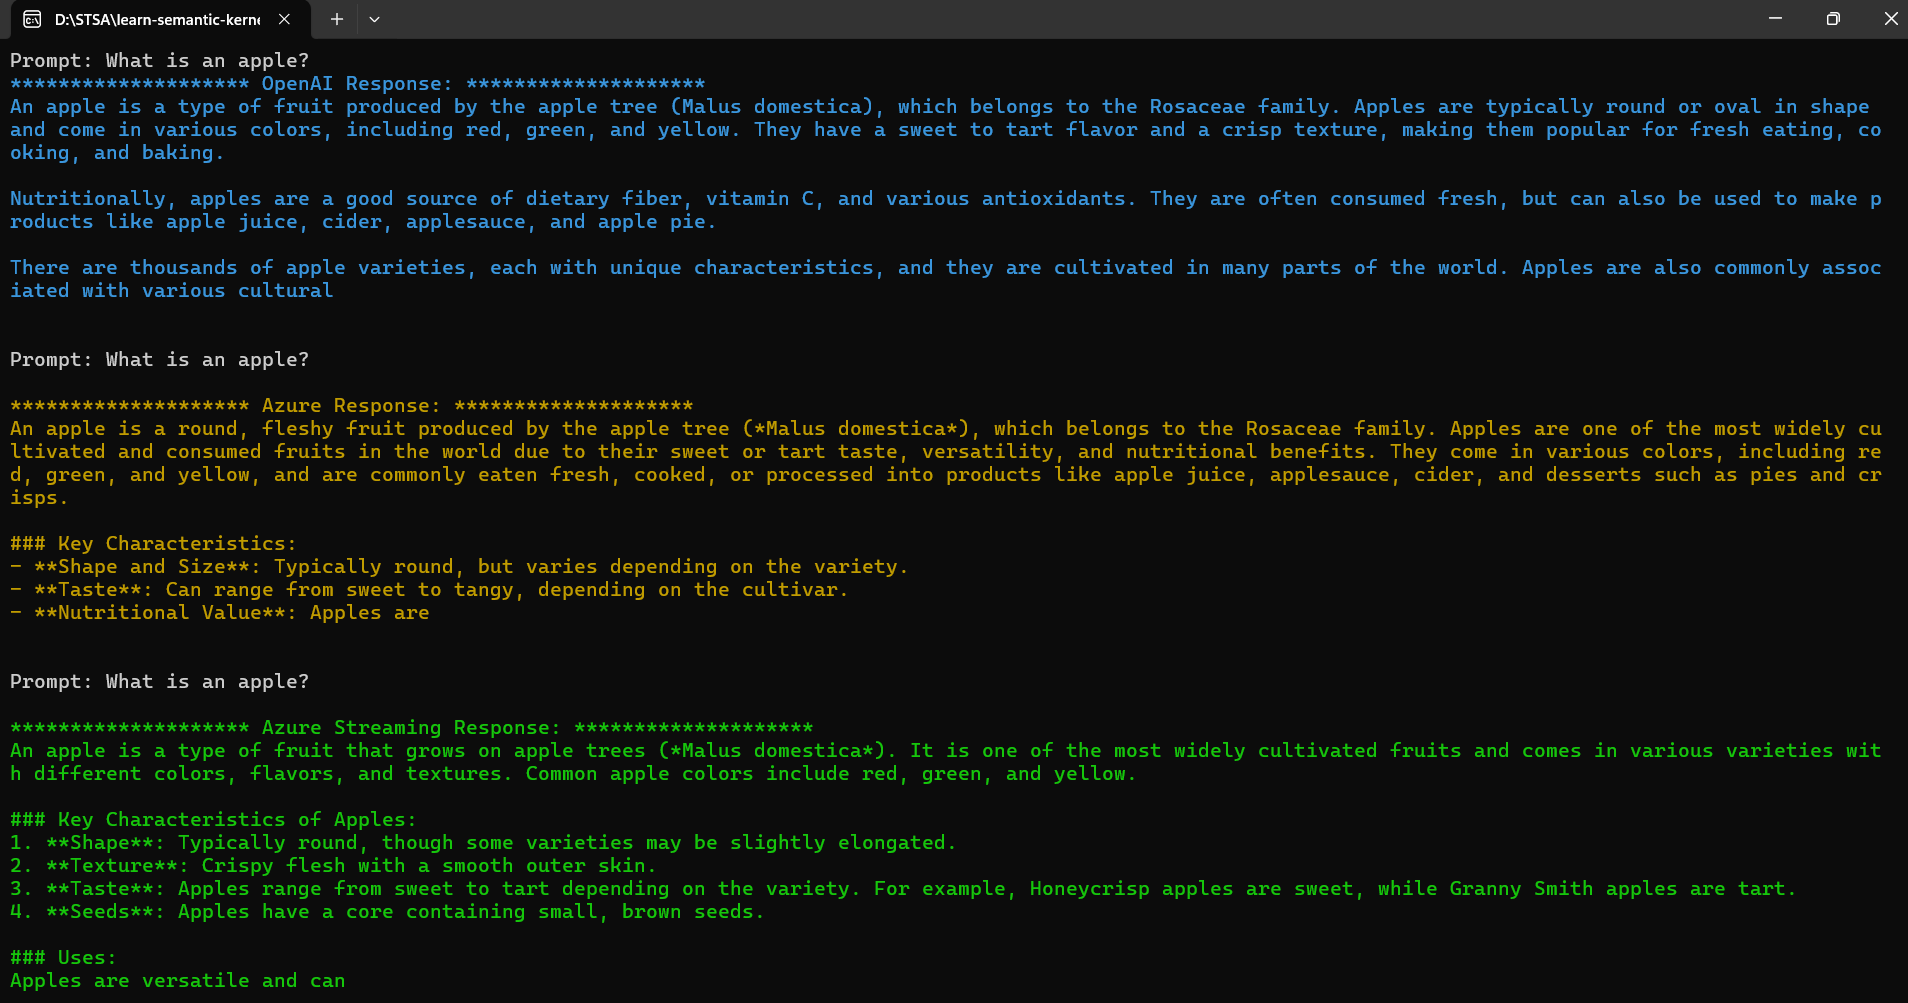
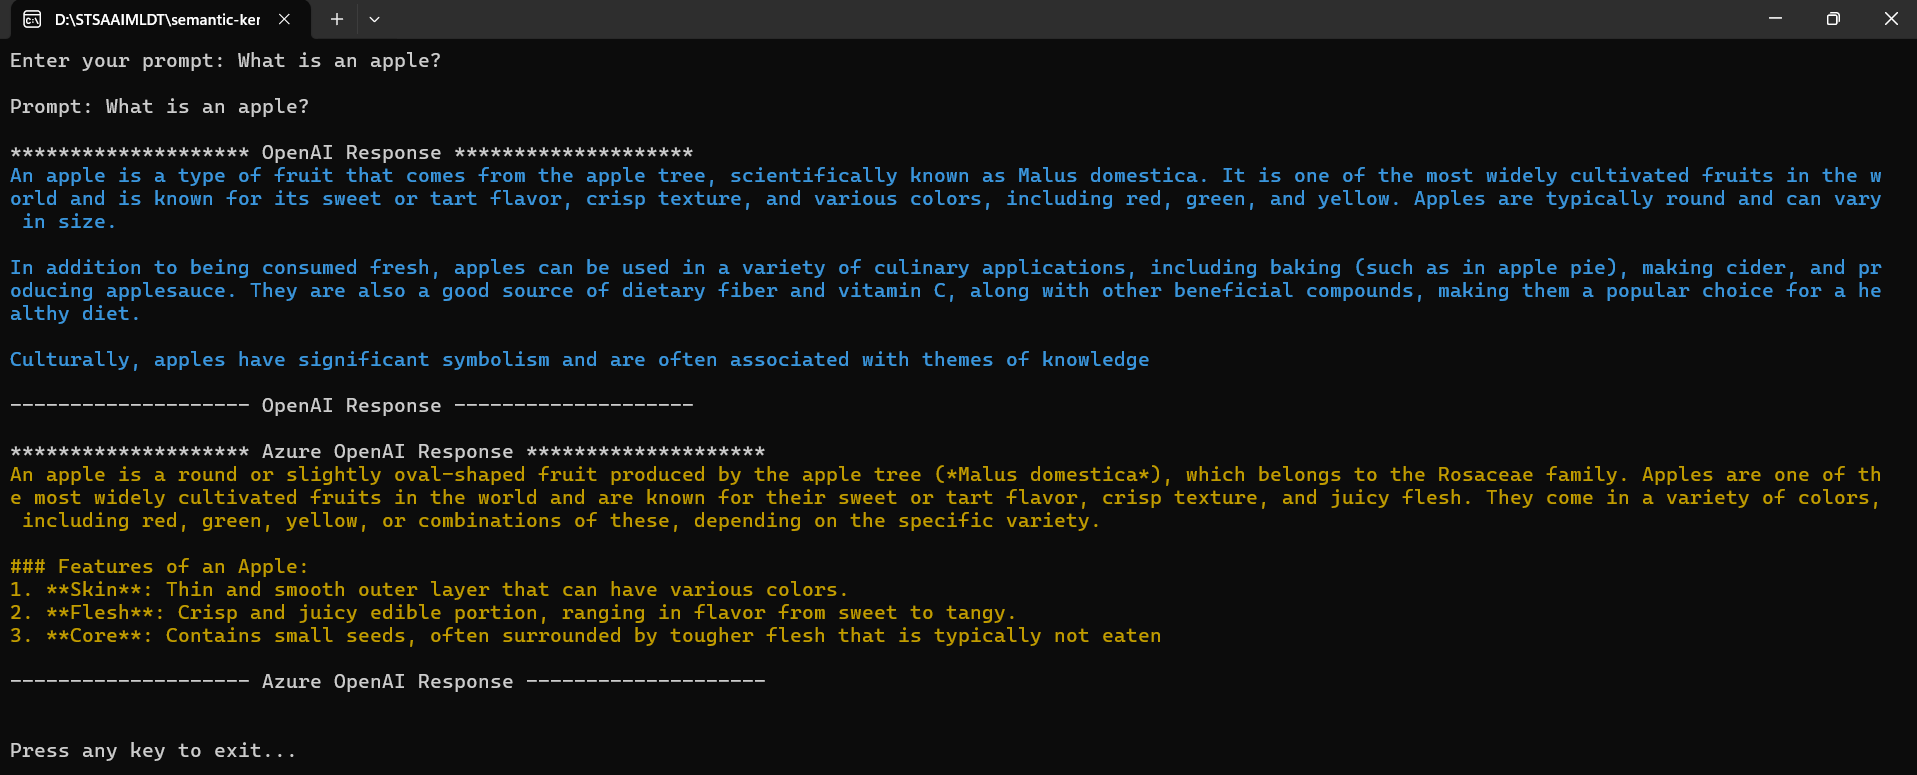
Changes

Changed region(s): [[0.0, 0.3406, 0.9895, 0.991], [0.0, 0.0, 1.0, 0.1548], [0.0, 0.1858, 0.9895, 0.3097]]

diff --git a/src/SKKernelDemo/Program.cs b/src/SKKernelDemo/Program.cs
@@ -1,4 +1,5 @@
-using Microsoft.Extensions.DependencyInjection;
+using System.Text;
+using Microsoft.Extensions.DependencyInjection;
 using SKKernelDemo.Infrastructure;
 using SKKernelDemo.Services;
 
@@ -7,44 +8,40 @@ using SKKernelDemo.Services;
 #pragma warning disable S125
 #pragma warning disable CA1303
 
+// Set console output encoding to UTF-8
+Console.OutputEncoding = Encoding.UTF8;
 
 var host = HostBuilderFactory.BuildHost(args);
 
 var openAiService = host.Services.GetRequiredService<IOpenAIPromptService>();
-string prompt = "What is an apple?";
-
-WriteLine($"Prompt: {prompt}");
-ForegroundColor = ConsoleColor.DarkCyan;
-WriteLine("\n******************** OpenAI Response: ********************");
-string? openAiResponse = await openAiService.GetPromptResponseAsync(prompt).ConfigureAwait(false);
-WriteLine(openAiResponse);
-
-ResetColor();
-WriteLine($"\n\nPrompt: {prompt}");
-ForegroundColor = ConsoleColor.Magenta;
-WriteLine("\n******************** OpenAI Streaming Response: ********************");
-await foreach (var chunk in openAiService.StreamPromptResponseAsync(prompt).ConfigureAwait(false))
-{
-    Write(chunk);
-}
-
 var azureService = host.Services.GetRequiredService<IAzurePromptService>();
 
+// Ask user for input
+Write("Enter your prompt: ");
+string? prompt = ReadLine();
+
+if (string.IsNullOrWhiteSpace(prompt))
+{
+    WriteLine("Prompt cannot be empty. Exiting...");
+    return;
+}
+
+WriteLine($"\nPrompt: {prompt}");
+
+WriteLine("\n******************** OpenAI Response ********************");
+ForegroundColor = ConsoleColor.DarkCyan;
+string? openAiResponse = await openAiService.GetPromptResponseAsync(prompt).ConfigureAwait(false);
+WriteLine(openAiResponse);
 ResetColor();
-WriteLine($"\n\nPrompt: {prompt}");
+WriteLine("\n-------------------- OpenAI Response --------------------");
+
+
+WriteLine("\n******************** Azure OpenAI Response ********************");
 ForegroundColor = ConsoleColor.DarkYellow;
-WriteLine("\n******************** Azure Response: ********************");
 string? azureResponse = await azureService.GetPromptResponseAsync(prompt).ConfigureAwait(false);
 WriteLine(azureResponse);
-
 ResetColor();
-WriteLine($"\n\nPrompt: {prompt}");
-ForegroundColor = ConsoleColor.Green;
-WriteLine("\n******************** Azure Streaming Response: ********************");
-await foreach (var chunk in azureService.StreamPromptResponseAsync(prompt).ConfigureAwait(false))
-{
-    Write(chunk);
-}
+WriteLine("\n-------------------- Azure OpenAI Response --------------------");
 
 ResetColor();
 WriteLine("\n\nPress any key to exit...");
